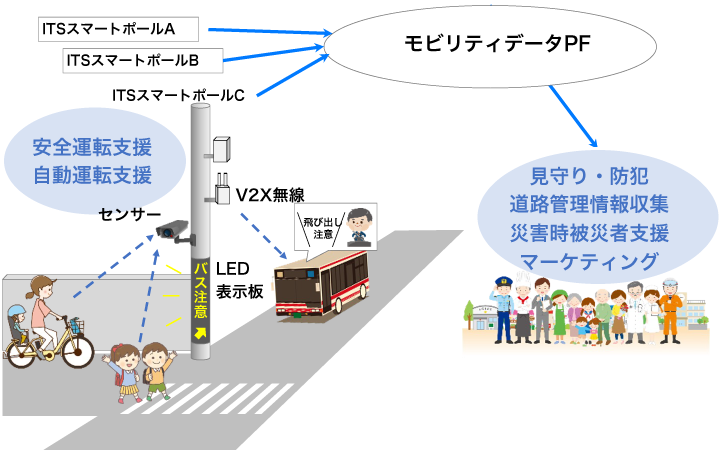
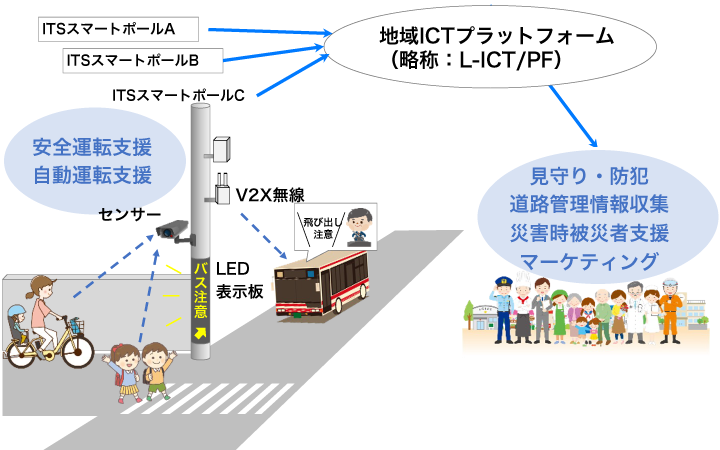
字句を修正

Changed region(s): [[0.5194, 0.0622, 0.8556, 0.1556]]

diff --git a/src/pages/index.md b/src/pages/index.md
@@ -15,6 +15,7 @@ description: "AA-ITS研究会では、先進的な自動車・交通技術を出
 ### 英文略称：　AA-ITS
 
 ---
+![ITSスマートポール多角利用イメージ](/img/ITS-smart-pole.png)
 
 AA-ITS研究会は以下の3つを目的に掲げ、活動していきます。
 
